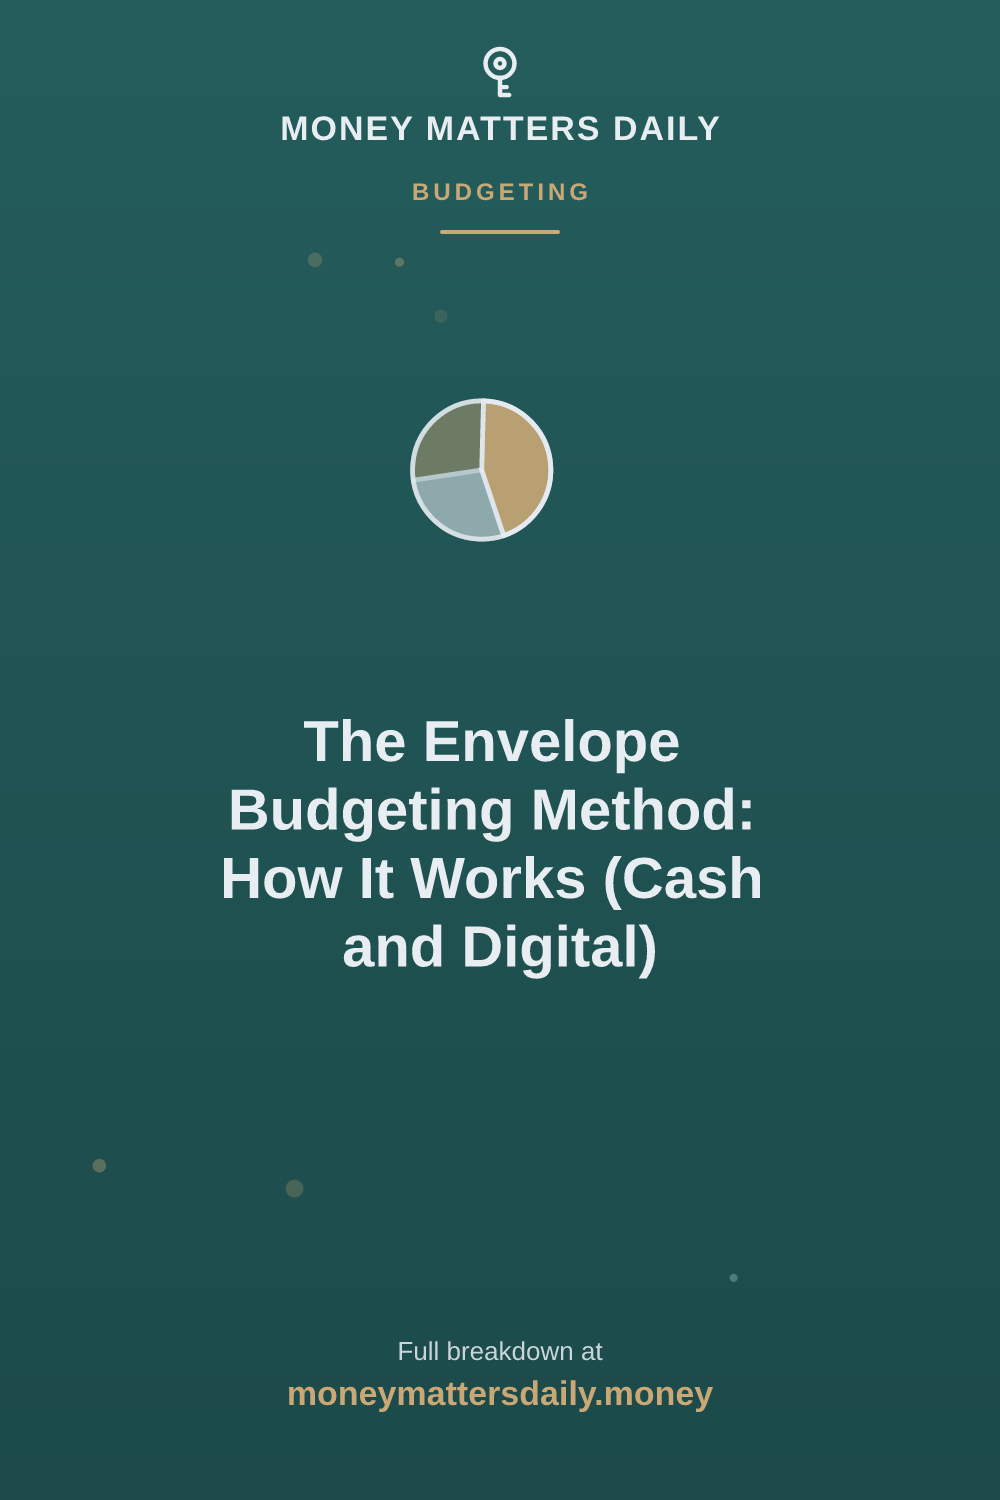
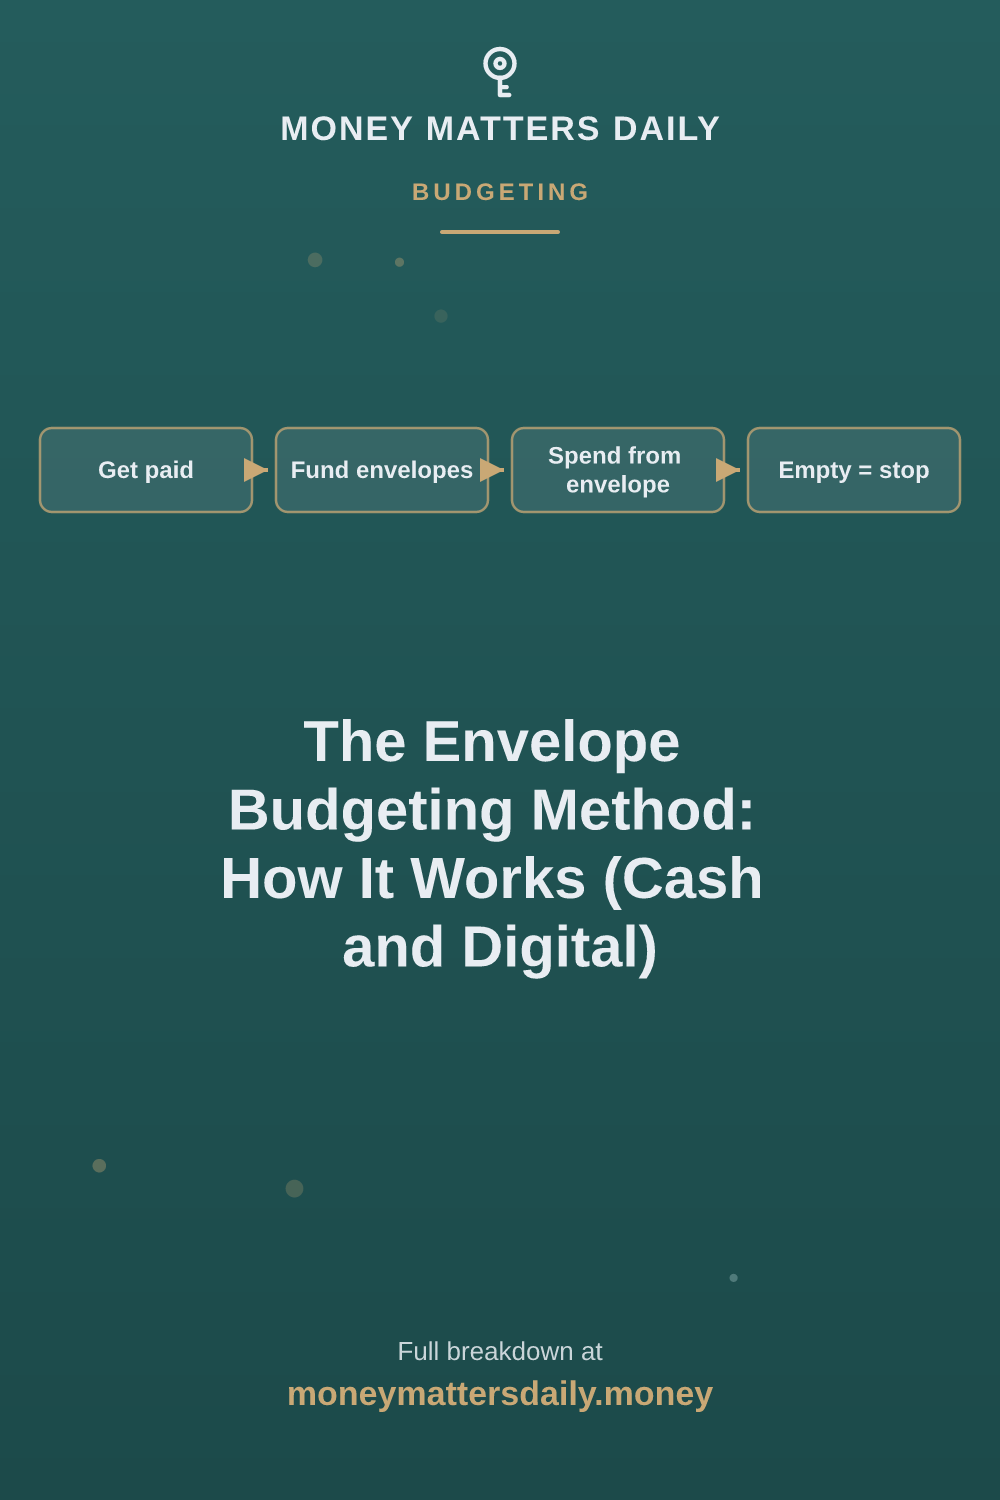
Pin visual variety + content-depth treatment on 2 posts
Two related changes from the 2026-08-20 feedback discussion:

1. Pin visual variety (pie-chart repetition fix)
   - New pinVisual schema field: icon (default) / equation / flow / table / plain
   - generate-pin.mjs now supports a flow-chain visual and a small
     label/value table visual, alongside the existing equation display
   - Applied sparingly, not to every post:
     - zero-based-budgeting-explained -> equation (no icon)
     - envelope-budgeting-method -> flow (Get paid -> Fund envelopes ->
       Spend -> Empty = stop)
     - 50-30-20-budget-rule-explained -> table (Needs 50% / Wants 30% /
       Savings 20%)
     - high-yield-savings-accounts-explained -> plain (title-forward,
       no icon/equation/table)
   - Other posts unchanged, still using their pillar's default icon
   - Added table/blockquote CSS to BaseLayout.astro (plain markdown
     tables and blockquotes, no raw HTML needed in post files)

2. Content depth treatment, applied to the 2 posts most directly named
   in the 08-20 feedback, not retrofitted across the whole site yet:
   - zero-based-budgeting-explained: worked full sample budgets at
     ,000/mo, ,000/mo, and a variable-income example (tables),
     highlighted equation blockquote, common-mistakes section,
     last-updated note
   - managing-money-as-a-digital-nomad: home-bank vs multi-currency vs
     local-bank comparison table, worked currency-conversion cost
     example, who-this-is-for/not-for section, primary-source links
[…]

diff --git a/src/content.config.ts b/src/content.config.ts
@@ -24,6 +24,20 @@ const blog = defineCollection({
     // pillar icon and title (e.g. "Income − Expenses = $0"). Keep it short —
     // it renders as one line at a fixed size, no wrapping.
     equation: z.string().optional(),
+    // Which visual fills the pin's icon area. Defaults to the pillar's
+    // standard line-icon (e.g. the pie chart for budgeting) so most posts
+    // need no change. Use a non-default value sparingly, to break up visual
+    // repetition when several posts share a pillar — not on every post.
+    //   'icon'   — the pillar's standard line-icon (default)
+    //   'equation' — no icon; the `equation` field renders large, centered
+    //   'flow'   — a short this → this → this step chain (see flowSteps)
+    //   'table'  — a small 2–3 row label/value table (see tableRows)
+    //   'plain'  — no icon, no equation, no table — title-forward only
+    pinVisual: z.enum(['icon', 'equation', 'flow', 'table', 'plain']).default('icon'),
+    // Used when pinVisual is 'flow'. 3–4 short steps (few words each).
+    flowSteps: z.array(z.string()).max(4).optional(),
+    // Used when pinVisual is 'table'. 2–3 label/value rows.
+    tableRows: z.array(z.object({ label: z.string(), value: z.string() })).max(3).optional(),
     // Set to true only after a human has reviewed the generated Pinterest pin image
     // (see scripts/generate-pin.mjs and .github/workflows/pin-preview.yml).
     // Only pinApproved posts are included in /pinterest-feed.xml.

diff --git a/src/content/blog/managing-money-as-a-digital-nomad.md b/src/content/blog/managing-money-as-a-digital-nomad.md
@@ -1,22 +1,44 @@
 ---
 title: "Managing Money as a Digital Nomad: A Practical Starting Guide"
-description: "The banking, currency, and tax basics to sort out before you start working from another country — and the mistakes that cost nomads the most."
+description: "The banking, currency, and tax basics to sort out before you start working from another country — with a real bank-type comparison table and a worked currency-conversion example."
 pubDate: 2026-08-19
+updatedDate: 2026-08-21
 targetKeyword: "digital nomad finances"
 pillar: "travel-finance"
 draft: false
 pinApproved: true
 ---
 
-Moving your income and spending across borders adds a layer most budgeting advice doesn't cover. Here's what to get right first.
+Moving your income and spending across borders adds a layer most budgeting advice doesn't cover. In short: fix your banking setup before you leave, treat currency conversion as a real budget line rather than background noise, and confirm your tax residency status before your first trip, not after.
 
-## Banking that travels with you
+## Who this is for — and who it isn't
 
-A home-country bank account tied to a single physical branch is the first thing to fix. Look for:
+**It's for:** anyone earning income in one currency while spending in another for more than a few weeks at a time — remote employees relocating temporarily, freelancers who travel while working, and long-term slow travelers.
 
-- A bank or fintech with low or zero foreign transaction fees
-- Multi-currency accounts if you're paid in one currency and spending in another
-- ATM fee reimbursement — this adds up fast over a year of travel
+**It's not for:** a two-week vacation, where a no-foreign-fee travel credit card covers most of what matters here without needing a new account setup at all. The banking changes below start paying off once you're spending in a foreign currency for months, not days.
+
+## Banking that travels with you: three options compared
+
+A home-country bank account tied to a single physical branch is usually the first thing to fix. There are three broad options, and they solve different problems:
+
+| | Home bank (standard debit/credit) | Multi-currency fintech account | Local in-country bank |
+|---|---|---|---|
+| **Foreign transaction fee** | Often 1–3% per purchase, on top of the exchange rate | Typically free up to a monthly allowance, then a small percentage fee on major currency pairs | None — you're spending in the local currency already |
+| **Exchange rate** | Often marked up from the real (mid-market) rate | Usually close to the mid-market rate | N/A for local spending |
+| **ATM withdrawals abroad** | Often a flat fee plus the card network's own charge | Usually free up to a monthly limit, then a per-withdrawal fee | Free or low-cost at the bank's own ATMs |
+| **Getting paid** | Fine if paid in your home currency | Often provides local account details in multiple currencies, useful for invoicing international clients | Requires local residency/paperwork to open in most countries |
+| **Setup effort** | None — you already have it | Sign up online, usually approved within days | Often requires proof of local address or a residency permit |
+
+None of these fully replaces the others. A common setup: keep the home bank account for anything tied to your home country (rent back home, existing bills), use a multi-currency fintech account as the main spending and receiving account while traveling, and only open a local account if you're staying in one country long enough that local paperwork (a lease, a local job) makes it worthwhile anyway.
+
+## A worked example: what currency conversion actually costs
+
+Say you're paid $4,000/month in USD but living and spending in the EU, converting to EUR.
+
+- **Home bank card used directly abroad**, with a typical foreign transaction fee plus exchange rate markup on the range of 2–5% combined: roughly **$80–$200/month** lost to fees and markup.
+- **Multi-currency fintech account**, with fees closer to the real exchange rate, typically well under 1% for major currency pairs: roughly **$10–$40/month**.
+
+That gap — often over $100/month, upward of $1,000+/year — is the entire financial case for setting up a multi-currency account before you leave, not after the first surprising statement. The [CFPB's consumer guidance on currency conversion fees](https://www.consumerfinance.gov/ask-cfpb/what-types-of-fees-do-prepaid-cards-typically-charge-en-2053/) explains how these charges typically get applied and disclosed, if you want to check your own card's actual terms rather than relying on a general range.
 
 ## Currency risk is a real budget line
 
@@ -29,11 +51,13 @@ If your income and expenses are in different currencies, exchange rate swings fu
 
 Tax residency rules vary enormously by country and by how many days you spend where. The two things worth confirming before you leave, not after:
 
-- Whether you're still a tax resident of your home country while abroad
-- Whether the countries you're spending time in have their own thresholds that could make you liable there too
+- **Whether you're still a tax resident of your home country while abroad.** For US citizens specifically, the [IRS's Substantial Presence Test](https://www.irs.gov/publications/p519) is one of the mechanisms used to determine US tax residency based on days physically present — but note that US citizens are taxed on worldwide income regardless of residency in a way many other countries' citizens aren't, so this isn't a direct template for non-US readers.
+- **Whether the countries you're spending time in have their own thresholds** that could make you liable there too — many countries use a version of the common "183 days in a 12-month period" threshold, but the exact rule, exemptions, and tax treaty details vary by country pair.
 
-This is genuinely one area worth a real accountant, not a blog post — the cost of getting it wrong (double taxation, penalties) is much higher than the cost of an hour of professional advice.
+This is genuinely one area worth a real accountant, not a blog post — the cost of getting it wrong (double taxation, penalties) is much higher than the cost of an hour of professional advice. Common mistake: assuming that because you're not paid by a company in the country you're staying in, you have no tax obligation there — physical presence, not payment source, is what most countries' thresholds are actually based on.
 
 ## Getting started
 
-Before your first trip: open a fee-free banking option, set a currency buffer, and confirm your home tax residency status. Everything else — travel insurance, remote-work visas, cost-of-living comparisons — matters, but those three get expensive fastest when ignored.
+Before your first trip: open a fee-free banking option (or confirm you're actually not overpaying on the one you have), set a currency buffer, and confirm your home tax residency status. Everything else — travel insurance, remote-work visas, cost-of-living comparisons — matters, but those three get expensive fastest when ignored.
+
+*Last updated August 2026. Fee ranges above are illustrative of the typical structure of each account type, not a quote for any specific provider — providers change pricing frequently, so confirm current fees directly with the bank or fintech before choosing one. Tax residency rules are jurisdiction-specific and change; this isn't a substitute for advice from an accountant familiar with your specific home country and destination.*

diff --git a/src/content/blog/zero-based-budgeting-explained.md b/src/content/blog/zero-based-budgeting-explained.md
@@ -7,6 +7,7 @@ pillar: "budgeting"
 draft: false
 pinApproved: false
 equation: "Income − Expenses = $0"
+pinVisual: "equation"
 ---
 
 Zero-based budgeting means income minus expenses equals zero — not because you spent everything, but because every dollar was assigned a job in advance, including the dollars going to savings. Nothing is left unassigned to "figure out later."
@@ -19,6 +20,59 @@ That's the core difference from a method like [50/30/20](/blog/50-30-20-budget-r
 2. **List every expense category**, not just the big ones. Rent, groceries, and debt payments are obvious. Add the smaller recurring ones too — subscriptions, the coffee budget, pet costs — so nothing sneaks in unaccounted for later.
 3. **Assign savings and debt payoff a line item, not the leftovers.** This is the part people skip, and it's the part that matters most: savings gets budgeted like a bill, before discretionary spending, not after.
 4. **Add it all up.** Income minus every category should land at zero. If it doesn't, you adjust categories — not just hope the numbers work out by the end of the month.
+
+> Income − Expenses = $0. Every dollar is assigned before the month starts — including the dollars going to savings — so nothing is left over to "figure out later."
+
+## A worked example at three income levels
+
+The categories stay the same regardless of income; what changes is the dollar amount in each one. Here's what a zero-based budget looks like at $2,000/month, $4,000/month, and a variable-income example.
+
+**$2,000/month (take-home)**
+
+| Category | Amount |
+|---|---|
+| Rent/housing | $800 |
+| Groceries | $300 |
+| Utilities | $120 |
+| Transportation | $150 |
+| Minimum debt payments | $150 |
+| Savings | $150 |
+| Subscriptions & discretionary | $180 |
+| Personal/misc | $150 |
+| **Total** | **$2,000** |
+
+**$4,000/month (take-home)**
+
+| Category | Amount |
+|---|---|
+| Rent/housing | $1,300 |
+| Groceries | $450 |
+| Utilities | $180 |
+| Transportation | $300 |
+| Minimum debt payments | $300 |
+| Savings | $600 |
+| Subscriptions & discretionary | $400 |
+| Personal/misc | $470 |
+| **Total** | **$4,000** |
+
+At roughly double the income, savings more than doubles in dollar terms (from $150 to $600) — this is the zero-based approach working as intended: fixed costs like rent don't scale linearly with income, so the extra room goes disproportionately toward savings rather than being absorbed evenly across every category.
+
+**Variable income (averages $3,000/month, ranges $1,800–$4,200)**
+
+Zero-based budgeting handles variable income differently: build the budget around your **lowest realistic month**, not your average, so a slow month doesn't blow up the plan.
+
+| Category | Amount (built at $1,800 baseline) |
+|---|---|
+| Rent/housing | $900 |
+| Groceries | $350 |
+| Utilities | $130 |
+| Transportation | $150 |
+| Minimum debt payments | $170 |
+| Savings | $50 |
+| Subscriptions & discretionary | $50 |
+| **Total** | **$1,800** |
+
+In months where income comes in above $1,800, the extra isn't assigned to a category in advance — it gets allocated once it actually arrives, typically split between building a buffer (see our [emergency fund guide](/blog/how-much-emergency-fund/)) and boosting the savings line above its bare-minimum $50. This is the one case where "assign every dollar in advance" bends slightly: you can't assign money you don't know you'll have yet, so the baseline budget is what's planned, and anything above it is assigned as it lands.
 
 ## Why some people find it more effective than percentage-based budgets
 
@@ -34,6 +88,15 @@ The tradeoff is time. Building a zero-based budget takes real effort the first m
 
 If you're on a stable salary and a simpler method has been working, there's no real need to switch — zero-based budgeting is a tool for more control, not a requirement for good budgeting.
 
+## Common mistakes
+
+- **Forgetting irregular annual expenses** (car registration, an annual subscription, holiday spending) and having them blow up a category that looked fine every other month. Divide the annual amount by 12 and give it its own line, even if you only "spend" it once a year.
+- **Treating the first month's budget as final.** It won't be. Some categories will run tight, others loose — that's information to adjust with, not a sign the method failed.
+- **Assigning savings last instead of first.** If savings only gets whatever's left after everything else, it tends to shrink toward zero by the end of the month. Put it in the budget like a bill.
+
 ## Getting started without overcomplicating it
 
+
 Don't try to predict every category perfectly in month one. Build the budget, live with it for a few weeks, then adjust categories that were clearly too tight or too loose. If you haven't tracked spending at all yet, start with [a basic budget](/blog/how-to-make-a-budget-for-beginners/) first — zero-based budgeting is easier to build once you already know where your money tends to go.
+
+*Last updated August 2026. The worked examples above use illustrative category splits for a renter with average-market housing costs — your own rent/mortgage share will vary by location, and that's the category to adjust first when adapting these numbers to your own budget.*

diff --git a/src/content/blog/high-yield-savings-accounts-explained.md b/src/content/blog/high-yield-savings-accounts-explained.md
@@ -6,6 +6,7 @@ targetKeyword: "best high yield savings accounts explained"
 pillar: "saving"
 draft: false
 pinApproved: false
+pinVisual: "plain"
 ---
 
 A high-yield savings account (HYSA) is a savings account, usually from an online bank, that pays a meaningfully higher interest rate than a traditional bank's savings account — often several times the national average — with the same federal deposit insurance and no added risk. The rate isn't fixed: it moves with the broader interest-rate environment, so any specific number you read today (including in this article) should be treated as a snapshot, not a guarantee.

diff --git a/src/content/blog/envelope-budgeting-method.md b/src/content/blog/envelope-budgeting-method.md
@@ -6,6 +6,8 @@ targetKeyword: "envelope budgeting method"
 pillar: "budgeting"
 draft: false
 pinApproved: false
+pinVisual: "flow"
+flowSteps: ["Get paid", "Fund envelopes", "Spend from envelope", "Empty = stop"]
 ---
 
 The envelope method splits your spending money into fixed categories — groceries, gas, dining out — before the month starts, each with its own hard limit. Once an envelope is empty, that category is done until next month, no matter what's left in the others.

diff --git a/src/content/blog/50-30-20-budget-rule-explained.md b/src/content/blog/50-30-20-budget-rule-explained.md
@@ -6,6 +6,11 @@ targetKeyword: "50 30 20 budget rule"
 pillar: "budgeting"
 draft: false
 pinApproved: false
+pinVisual: "table"
+tableRows:
+  - { label: "Needs", value: "50%" }
+  - { label: "Wants", value: "30%" }
+  - { label: "Savings", value: "20%" }
 ---
 
 The 50/30/20 rule splits your take-home pay into three buckets: 50% needs, 30% wants, 20% savings and debt payoff. It's popular because it's simple enough to start today without a spreadsheet.
